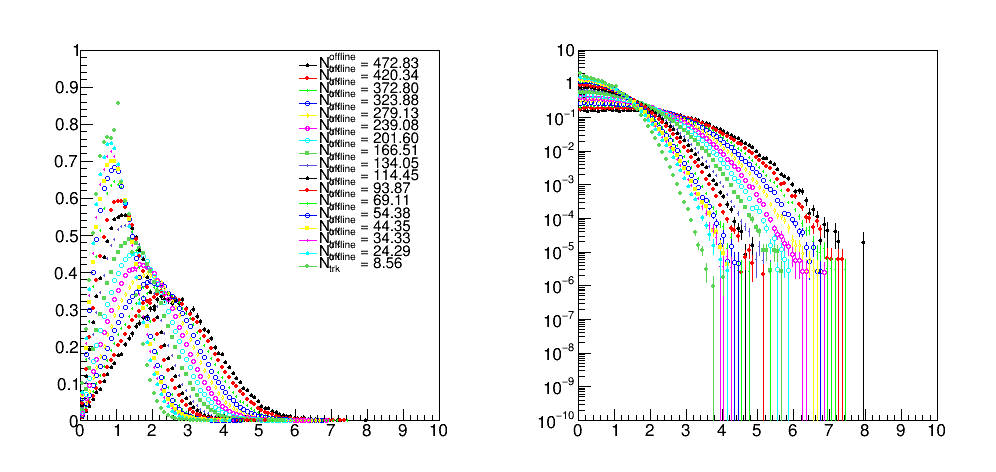
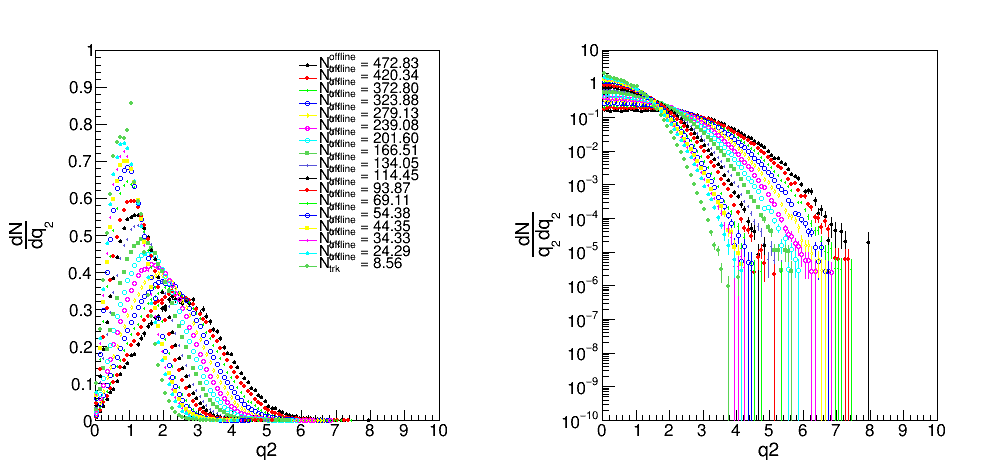
qfit PbPb

diff --git a/flow/qfit/PbPb2011MB/plotqdisallbins.C b/flow/qfit/PbPb2011MB/plotqdisallbins.C
@@ -25,7 +25,7 @@ void plotqdisallbins(){
         double *avgtrk = vecDavgtrk->GetMatrixArray();
         int counter=0;
         for(int ibin=0;ibin<nbin;ibin++){	//ibin<1
-     //       if(ibin!=10) continue;
+            if(ibin!=10) continue;
             TH1D* hq = (TH1D*)f->Get(Form("D_%d/D_%d/hq",ibin,xtheta));
             TH1D* hqx = (TH1D*)f->Get(Form("D_%d/hqx",ibin));
             TH1D* hqy = (TH1D*)f->Get(Form("D_%d/hqy",ibin));
@@ -102,8 +102,8 @@ hqy_cp->Fit(Form("ffit"),"R","",0,10);
 hqy_cp->Draw("Psame");
 t->DrawLatex(0.5,0.2,Form("N_{trk}^{offline} = %.2f",avgtrk[ibin]));
 */
-c4->cd(1)->SetLeftMargin(0.15);
-fixedFontHist(hFrame,2.0,3.0);
+c4->cd(1)->SetLeftMargin(0.18);
+fixedFontHist(hFrame,1.0,2.0);
 hFrame->GetXaxis()->SetTitle("q2");
 hFrame->GetYaxis()->SetTitle("#frac{dN}{dq_{2}}");
 hFrame->GetYaxis()->SetRangeUser(0,1);
@@ -115,9 +115,9 @@ hq2->SetLineColor(color[counter]);
 hq2->SetMarkerSize(0.5);
 hq2->Draw("Psame");
 c4->cd(2)->SetLogy();
-c4->cd(2)->SetLeftMargin(0.15);
+c4->cd(2)->SetLeftMargin(0.2);
 TH1D* hq2_cp = (TH1D*)hq2->Clone("hq2_cp");
-fixedFontHist(hFrame,2.0,3.0);
+fixedFontHist(hFrame,1.0,2.0);
 divideByBinCenter(hq2_cp);
 hFrame->GetYaxis()->SetTitle("#frac{dN}{q_{2}dq_{2}}");
 hFrame->GetYaxis()->SetRangeUser(1e-10,10);
@@ -184,6 +184,6 @@ c3->Print("hqy_fit.png");
 c4->Print("hq2_fit.png");
 c5->Print("hq2nonf_fit.png");
 */
-c4->Print("hq2_fit.png");
+c4->Print("hq2_fit_10.png");
 }
 

diff --git a/flow/qfit/tracknormcpt03to6/plotqdisallbins.C b/flow/qfit/tracknormcpt03to6/plotqdisallbins.C
@@ -106,8 +106,8 @@ hqy_cp->Fit(Form("ffit"),"R","",0,10);
 hqy_cp->Draw("Psame");
 t->DrawLatex(0.5,0.2,Form("N_{trk}^{offline} = %.2f",avgtrk[ibin]));
 */
-c4->cd(1)->SetLeftMargin(0.15);
-fixedFontHist(hFrame,2.0,3.0);
+c4->cd(1)->SetLeftMargin(0.18);
+fixedFontHist(hFrame,1.0,2.0);
 hFrame->GetXaxis()->SetTitle("q2");
 hFrame->GetYaxis()->SetTitle("#frac{dN}{dq_{2}}");
 hFrame->GetYaxis()->SetRangeUser(0,1);
@@ -119,9 +119,9 @@ hq2->SetLineColor(color[ibin]);
 hq2->SetMarkerSize(0.5);
 hq2->Draw("Psame");
 c4->cd(2)->SetLogy();
-c4->cd(2)->SetLeftMargin(0.15);
+c4->cd(2)->SetLeftMargin(0.2);
 TH1D* hq2_cp = (TH1D*)hq2->Clone("hq2_cp");
-fixedFontHist(hFrame,2.0,3.0);
+fixedFontHist(hFrame,1.0,2.0);
 divideByBinCenter(hq2_cp);
 hFrame->GetYaxis()->SetTitle("#frac{dN}{q_{2}dq_{2}}");
 hFrame->GetYaxis()->SetRangeUser(1e-10,10);
@@ -179,6 +179,7 @@ hq2nonf_cp->Draw("Psame");
 t->DrawLatex(0.5,0.2,Form("N_{trk}^{offline} = %.2f", avgtrk[ibin]*2));
 */
 }
+c4->cd(1);
 tl->Draw("same");
 /*
 c1->Print("hqx_fit.png");
